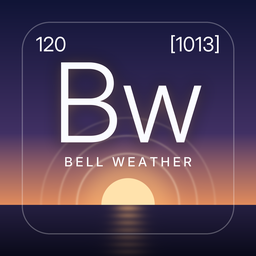
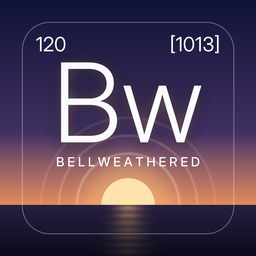
Rename Bell Weather to Bellweathered
Display name, in-app title, Aether's duo labels, permission prompts,
privacy and support pages, App Store listing and icon now say
Bellweathered. The bundle ID becomes com.samuelling.bellweathered
(the old one was never registered with the paid team). Folder and
target names stay "Bellweather" internally.

Claude-Session: https://claude.ai/code/session_01QXjQmyz8xxfkTURLAivd6h

Changed region(s): [[0.2188, 0.5938, 0.7812, 0.6562]]

diff --git a/docs/bellweather/privacy.html b/docs/bellweather/privacy.html
@@ -3,38 +3,38 @@
 <head>
 <meta charset="utf-8">
 <meta name="viewport" content="width=device-width, initial-scale=1">
-<title>Bell Weather Privacy</title>
+<title>Bellweathered Privacy</title>
 <link rel="stylesheet" href="../style.css">
 </head>
 <body>
 <main>
-  <header class="app-head"><img src="icon.png" alt=""><h1>Bell Weather</h1></header>
+  <header class="app-head"><img src="icon.png" alt=""><h1>Bellweathered</h1></header>
   <p class="lede">Privacy policy · effective October 16, 2026</p>
 
-  <p>Bell Weather plays the weather, the sun and the moon where you are. It has no accounts, ads, analytics or tracking, and it never sends anything to the developer.</p>
+  <p>Bellweathered plays the weather, the sun and the moon where you are. It has no accounts, ads, analytics or tracking, and it never sends anything to the developer.</p>
 
   <h2>Location</h2>
-  <p>If you allow it, Bell Weather asks iOS for your approximate location (to about a kilometre) while the app is open. It uses it in three ways:</p>
+  <p>If you allow it, Bellweathered asks iOS for your approximate location (to about a kilometre) while the app is open. It uses it in three ways:</p>
   <ul>
     <li><strong>Weather:</strong> your coordinates, rounded to two decimal places (roughly 1 km), are sent to <a href="https://open-meteo.com/">Open-Meteo</a>, a free weather service, to fetch the current conditions. No other information is attached. See <a href="https://open-meteo.com/en/terms">Open-Meteo's terms</a> for how they handle requests.</li>
     <li><strong>Place name:</strong> iOS's built-in geocoding service (provided by Apple) turns your location into a town name to show on screen.</li>
     <li><strong>Sun and moon:</strong> their positions are calculated on your iPhone.</li>
   </ul>
-  <p>Your location is kept in memory only and is not stored or shared beyond the above. If you don't allow location, Bell Weather uses a default place or a simulated sky.</p>
+  <p>Your location is kept in memory only and is not stored or shared beyond the above. If you don't allow location, Bellweathered uses a default place or a simulated sky.</p>
 
   <h2>Duo with Aether</h2>
-  <p>When Duo is on (it is by default, for a few minutes after launch; you can turn it off in Settings › Duo), Bell Weather looks for the Aether app on a nearby iPhone using Apple's peer-to-peer connection (Bluetooth or direct Wi-Fi, no internet). When connected, the two exchange musical information directly with each other, encrypted: key, scale, tempo, chord changes, and a short summary of conditions (for Bell Weather: temperature, cloud, rain chance, wind, daylight and the place name it displays). Nothing is sent anywhere else. You can turn the search off at any time.</p>
+  <p>When Duo is on (it is by default, for a few minutes after launch; you can turn it off in Settings › Duo), Bellweathered looks for the Aether app on a nearby iPhone using Apple's peer-to-peer connection (Bluetooth or direct Wi-Fi, no internet). When connected, the two exchange musical information directly with each other, encrypted: key, scale, tempo, chord changes, and a short summary of conditions (for Bellweathered: temperature, cloud, rain chance, wind, daylight and the place name it displays). Nothing is sent anywhere else. You can turn the search off at any time.</p>
 
   <h2>Stored on your device</h2>
-  <p>Bell Weather remembers only your duo preferences and a random name for duo pairing. Deleting the app removes them.</p>
+  <p>Bellweathered remembers only your duo preferences and a random name for duo pairing. Deleting the app removes them.</p>
 
   <h2>Children</h2>
-  <p>Bell Weather does not knowingly collect personal data from anyone, including children; the location use above is the only data that leaves the device, and only to fetch weather and a place name.</p>
+  <p>Bellweathered does not knowingly collect personal data from anyone, including children; the location use above is the only data that leaves the device, and only to fetch weather and a place name.</p>
 
   <h2>Changes and contact</h2>
   <p>If this policy changes, the new version will appear on this page with a new date. Questions: <a href="https://github.com/samuelling/Aether/issues">open an issue on GitHub</a>.</p>
   <hr>
-  <p class="small"><a href="../index.html">Aether &amp; Bell Weather home</a></p>
+  <p class="small"><a href="../index.html">Aether &amp; Bellweathered home</a></p>
 </main>
 </body>
 </html>

diff --git a/docs/aether/privacy.html b/docs/aether/privacy.html
@@ -16,8 +16,8 @@
   <h2>Bluetooth</h2>
   <p>Aether listens to the Bluetooth signals that nearby devices broadcast and turns their strength and fluctuation into sound. This happens entirely on your iPhone, only while the app is open. The identifiers iOS gives Aether for those devices are random to this app, kept in memory only, and discarded when the app closes. Nothing about the devices around you is saved or transmitted.</p>
 
-  <h2>Duo with Bell Weather</h2>
-  <p>When Duo is on (it is by default, for a few minutes after launch; you can turn it off in Settings › Duo), Aether looks for the Bell Weather app on a nearby iPhone using Apple's peer-to-peer connection (Bluetooth or direct Wi-Fi, no internet). When the two connect, they exchange musical information directly with each other, encrypted: key, scale, tempo, chord changes, and a short summary of each app's surroundings (for Aether, how many devices it hears and how much the radio field is moving; for Bell Weather, the weather and the place name it shows). Nothing is sent anywhere else. You can turn the search off at any time.</p>
+  <h2>Duo with Bellweathered</h2>
+  <p>When Duo is on (it is by default, for a few minutes after launch; you can turn it off in Settings › Duo), Aether looks for the Bellweathered app on a nearby iPhone using Apple's peer-to-peer connection (Bluetooth or direct Wi-Fi, no internet). When the two connect, they exchange musical information directly with each other, encrypted: key, scale, tempo, chord changes, and a short summary of each app's surroundings (for Aether, how many devices it hears and how much the radio field is moving; for Bellweathered, the weather and the place name it shows). Nothing is sent anywhere else. You can turn the search off at any time.</p>
 
   <h2>Stored on your device</h2>
   <p>Aether remembers only your duo preferences (on/off and how long to search) and a random name for duo pairing. Deleting the app removes them.</p>
@@ -28,7 +28,7 @@
   <h2>Changes and contact</h2>
   <p>If this policy changes, the new version will appear on this page with a new date. Questions: <a href="https://github.com/samuelling/Aether/issues">open an issue on GitHub</a>.</p>
   <hr>
-  <p class="small"><a href="../index.html">Aether &amp; Bell Weather home</a></p>
+  <p class="small"><a href="../index.html">Aether &amp; Bellweathered home</a></p>
 </main>
 </body>
 </html>

diff --git a/docs/index.html b/docs/index.html
@@ -3,13 +3,13 @@
 <head>
 <meta charset="utf-8">
 <meta name="viewport" content="width=device-width, initial-scale=1">
-<title>Aether &amp; Bell Weather</title>
+<title>Aether &amp; Bellweathered</title>
 <meta name="description" content="Two ambient instruments for iPhone: one plays the radio field around you, the other plays the sky.">
 <link rel="stylesheet" href="style.css">
 </head>
 <body>
 <main>
-  <h1>Aether &amp; Bell Weather</h1>
+  <h1>Aether &amp; Bellweathered</h1>
   <p class="lede">Two ambient instruments for iPhone. One listens to the radio signals around you; the other listens to the sky. Together, nearby, they play as a duo.</p>
 
   <div class="apps">
@@ -22,9 +22,9 @@
       </div>
     </div>
     <div class="app">
-      <img src="bellweather/icon.png" alt="Bell Weather icon">
+      <img src="bellweather/icon.png" alt="Bellweathered icon">
       <div>
-        <h3>Bell Weather</h3>
+        <h3>Bellweathered</h3>
         <p>Plays the weather, the sun and the moon where you are as a drone, wind, rain and bells.</p>
         <a href="bellweather/privacy.html">Privacy policy</a>
       </div>
@@ -36,9 +36,9 @@
 
   <h2>Tips</h2>
   <ul>
-    <li><strong>No sound?</strong> Tap <em>Listen</em> (Aether) or <em>Begin</em> (Bell Weather), and check the ring/silent switch and volume.</li>
+    <li><strong>No sound?</strong> Tap <em>Listen</em> (Aether) or <em>Begin</em> (Bellweathered), and check the ring/silent switch and volume.</li>
     <li><strong>Aether hears nothing?</strong> Allow Bluetooth in Settings › Aether. It listens only while the app is open.</li>
-    <li><strong>Bell Weather shows a simulated sky?</strong> It couldn't reach the weather service or your location; it switches to live weather when it can.</li>
+    <li><strong>Bellweathered shows a simulated sky?</strong> It couldn't reach the weather service or your location; it switches to live weather when it can.</li>
     <li><strong>Duo not connecting?</strong> Open both apps on two iPhones near each other, allow Local Network when asked, and check Settings › Duo in each.</li>
   </ul>
 

diff --git a/Aether/ContentView.swift b/Aether/ContentView.swift
@@ -192,19 +192,19 @@ private struct SettingsView: View {
                     Text("Tuning")
                 } footer: {
                     if model.partnerName != nil && model.followPartnerKey {
-                        Text("Key and scale are following Bell Weather's sky.")
+                        Text("Key and scale are following Bellweathered's sky.")
                     }
                 }
                 Section {
-                    DuoControls(duo: model.duo, partnerName: "Bell Weather")
+                    DuoControls(duo: model.duo, partnerName: "Bellweathered")
                     if let summary = model.partnerSummary {
                         Text(summary).font(.footnote).foregroundStyle(.secondary)
                     }
-                    Toggle("Follow Bell Weather's key", isOn: $model.followPartnerKey)
+                    Toggle("Follow Bellweathered's key", isOn: $model.followPartnerKey)
                 } header: {
                     Text("Duo")
                 } footer: {
-                    Text("Open Bell Weather on a second iPhone nearby and the two find each other automatically, no Wi-Fi network needed. The sky leads harmony (key and scale); this room leads time (tempo and chord changes). Looking for a partner uses a little battery, so the search stops after the time you choose; if the two lose each other, each carries on solo and looks again.")
+                    Text("Open Bellweathered on a second iPhone nearby and the two find each other automatically, no Wi-Fi network needed. The sky leads harmony (key and scale); this room leads time (tempo and chord changes). Looking for a partner uses a little battery, so the search stops after the time you choose; if the two lose each other, each carries on solo and looks again.")
                 }
                 Section {
                     Toggle("Piano arpeggio", isOn: $model.arpOn)

diff --git a/Bellweather/BellweatherApp.swift b/Bellweather/BellweatherApp.swift
@@ -38,9 +38,11 @@ struct BellContentView: View {
     private var header: some View {
         HStack(alignment: .top) {
             VStack(alignment: .leading, spacing: 2) {
-                Text("BELL WEATHER")
-                    .font(.system(size: 20, weight: .light, design: .serif))
-                    .tracking(5)
+                Text("BELLWEATHERED")
+                    .font(.system(size: 19, weight: .light, design: .serif))
+                    .tracking(3.5)
+                    .lineLimit(1)
+                    .minimumScaleFactor(0.7)
                 Text(model.status).font(.caption).foregroundStyle(.white.opacity(0.75))
                 if let partner = model.partnerName {
                     Label("Duo with \(partner)", systemImage: "link")

diff --git a/Bellweather/SkyModel.swift b/Bellweather/SkyModel.swift
@@ -20,7 +20,7 @@ struct Ripple {
 
 @inline(__always) private func mtof(_ m: Double) -> Double { 440 * pow(2, (m - 69) / 12) }
 
-/// Bell Weather's brain: reads the sky (live or simulated), works out the sun and moon,
+/// Bellweathered's brain: reads the sky (live or simulated), works out the sun and moon,
 /// maps everything onto the drone, wind, rain and melody, and talks to Aether.
 @MainActor
 final class SkyModel: NSObject, ObservableObject {

diff --git a/Shared/DuoLink.swift b/Shared/DuoLink.swift
@@ -250,7 +250,7 @@ final class DuoLink: NSObject, ObservableObject {
               let s = try? JSONDecoder().decode(DuoState.self, from: data), s.role != role else { return }
         lastHeard = Date()
         partner = s
-        partnerName = s.role == "aether" ? "Aether" : "Bell Weather"
+        partnerName = s.role == "aether" ? "Aether" : "Bellweathered"
         phase = .connected
         searchEnds = nil
         onState?(s)

diff --git a/Aether/FieldModel.swift b/Aether/FieldModel.swift
@@ -525,7 +525,7 @@ final class FieldModel: NSObject, ObservableObject {
 
     private func receiveDuo(_ s: DuoState) {
         guard s.role == "bellweather" else { return }
-        partnerName = "Bell Weather"
+        partnerName = "Bellweathered"
         partnerDay = s.day
         if followPartnerKey {
             if let pc = s.rootPC, pc != rootNote, (0..<12).contains(pc) { rootNote = pc }

diff --git a/Bellweather/BellDSP.swift b/Bellweather/BellDSP.swift
@@ -64,7 +64,7 @@ final class BellParams {
     }
 }
 
-/// Bell Weather's sound, rendered natively:
+/// Bellweathered's sound, rendered natively:
 ///  • a six-layer "blend" drone (sine morphing toward a slowly beating saw) at sub-octaves,
 ///    root, octaves and a 2.76× bell partial, each with its own swell and pan drift,
 ///    through a resonant lowpass with a slow filter LFO;

diff --git a/Shared/DuoControls.swift b/Shared/DuoControls.swift
@@ -1,7 +1,7 @@
 import SwiftUI
 
 /// Rows for a Form section: turn the partner search on or off, choose how long to keep
-/// looking, and see where things stand. Shared by Aether and Bell Weather.
+/// looking, and see where things stand. Shared by Aether and Bellweathered.
 struct DuoControls: View {
     @ObservedObject var duo: DuoLink
     let partnerName: String

diff --git a/AppStore/make_icons.py b/AppStore/make_icons.py
@@ -102,5 +102,5 @@ def tile(bg, symbol, number, mass, name, glow_rgb, out):
 # 119 and 120 are the next undiscovered elements; the masses are each app's medium:
 # 2402 MHz (Bluetooth advertising channel 37) and 1013 hPa (one standard atmosphere).
 tile(aether_bg(), "Ae", "119", "[2402]", "Aether", (120, 210, 255), sys.argv[1])
-tile(bell_bg(), "Bw", "120", "[1013]", "Bell Weather", (255, 190, 120), sys.argv[2])
+tile(bell_bg(), "Bw", "120", "[1013]", "Bellweathered", (255, 190, 120), sys.argv[2])
 print("ok")

diff --git a/AppStore/Listing.md b/AppStore/Listing.md
@@ -1,4 +1,4 @@
-# App Store listings: Aether and Bell Weather
+# App Store listings: Aether and Bellweathered
 
 Copy each field into App Store Connect › your app (App Store tab, App Information, App Privacy). Character counts are checked against Apple's limits.
 
@@ -40,8 +40,8 @@ SHAPE THE SOUND
 • A live radar of every emitter around you
 • AirPlay to any speaker
 
-DUO WITH BELL WEATHER
-Open Bell Weather on a second iPhone nearby and the two find each other. The sky sets the key, the room sets the tempo, and they play together.
+DUO WITH BELLWEATHERED
+Open Bellweathered on a second iPhone nearby and the two find each other. The sky sets the key, the room sets the tempo, and they play together.
 
 PRIVATE BY DESIGN
 Everything happens on your iPhone. No accounts, ads, analytics or tracking, and nothing about the devices around you is stored or sent anywhere.
@@ -62,15 +62,15 @@ Aether is a musical instrument. Tap "Listen" on the main screen to start the sou
 
 Bluetooth data is processed on device only and never stored or transmitted.
 
-The optional "Duo" feature pairs with our companion app Bell Weather on a second nearby iPhone via MultipeerConnectivity (Local Network permission). It is not needed to review the app; Aether is fully functional on its own. Duo can be turned off in Settings > Duo.
+The optional "Duo" feature pairs with our companion app Bellweathered on a second nearby iPhone via MultipeerConnectivity (Local Network permission). It is not needed to review the app; Aether is fully functional on its own. Duo can be turned off in Settings > Duo.
 ```
 
-## Bell Weather
+## Bellweathered
 
 | Field | Value | Length |
 |---|---|---|
-| Name | Bell Weather | 12/30 |
-| Fallback names | Bell Weather: Sky Music · Bell Weather Ambient | |
+| Name | Bellweathered | 12/30 |
+| Fallback names | Bellweathered: Sky Music · Bellweathered Ambient | |
 | Subtitle | Ambient music from the sky | 26/30 |
 | Keywords | `ambient,weather,generative,drone,bells,sleep,focus,meditation,rain,wind,soundscape,eno,synth` | 92/100 |
 | Category | Music (secondary: Entertainment) | |
@@ -80,12 +80,12 @@ The optional "Duo" feature pairs with our companion app Bell Weather on a second
 
 **Promotional text** (138/170)
 
-Hear the weather. Bell Weather turns the sky where you are, its clouds, wind, rain, sun and moon, into a slowly changing drone with bells.
+Hear the weather. Bellweathered turns the sky where you are, its clouds, wind, rain, sun and moon, into a slowly changing drone with bells.
 
 **Description** (1475/4000)
 
 ```
-Bell Weather plays the sky where you are.
+Bellweathered plays the sky where you are.
 
 It reads the live weather for your location and works out where the sun and moon are, then turns it all into a slowly changing ambient piece: a deep drone that brightens at dawn and darkens at night, wind that gusts when the wind does, the hiss of rain or the hush of snow, and seven bell-like melodies drifting on long, unequal loops.
 
@@ -122,7 +122,7 @@ Weather data by Open-Meteo.com. Headphones recommended.
 **App Review notes** (App Review Information › Notes; no sign-in required):
 
 ```
-Bell Weather is an ambient music app. Tap "Begin" to start the sound; it makes no sound until then. It uses approximate location (when in use) to fetch the current weather from Open-Meteo and to place the sun and moon. If location is denied it uses a default place, and if the network is unavailable it runs a simulated sky; either way it is fully playable. Settings lets you switch to "Simulated" weather to hear different conditions quickly.
+Bellweathered is an ambient music app. Tap "Begin" to start the sound; it makes no sound until then. It uses approximate location (when in use) to fetch the current weather from Open-Meteo and to place the sun and moon. If location is denied it uses a default place, and if the network is unavailable it runs a simulated sky; either way it is fully playable. Settings lets you switch to "Simulated" weather to hear different conditions quickly.
 
 The optional "Duo" feature pairs with our companion app Aether on a second nearby iPhone via MultipeerConnectivity (Local Network permission). It is not needed to review the app. Duo can be turned off in Settings > Duo.
 ```
@@ -135,9 +135,9 @@ Both apps are iPhone-only, so one set per app: **6.9" iPhone, 1320 × 2868 px po
 1. The radar mid-play with several coloured voices and ripples
 2. The same with the piano arpeggio on and BPM showing
 3. Settings: scale, root, octave, voices, Reach and Response
-4. Settings › Duo showing "Playing with Bell Weather" (once paired)
+4. Settings › Duo showing "Playing with Bellweathered" (once paired)
 
-**Bell Weather shot list**
+**Bellweathered shot list**
 1. Daytime sky with clouds, playing
 2. Night sky with stars and the moon
 3. Rain or snow falling with note ripples (Simulated sky makes this easy)
